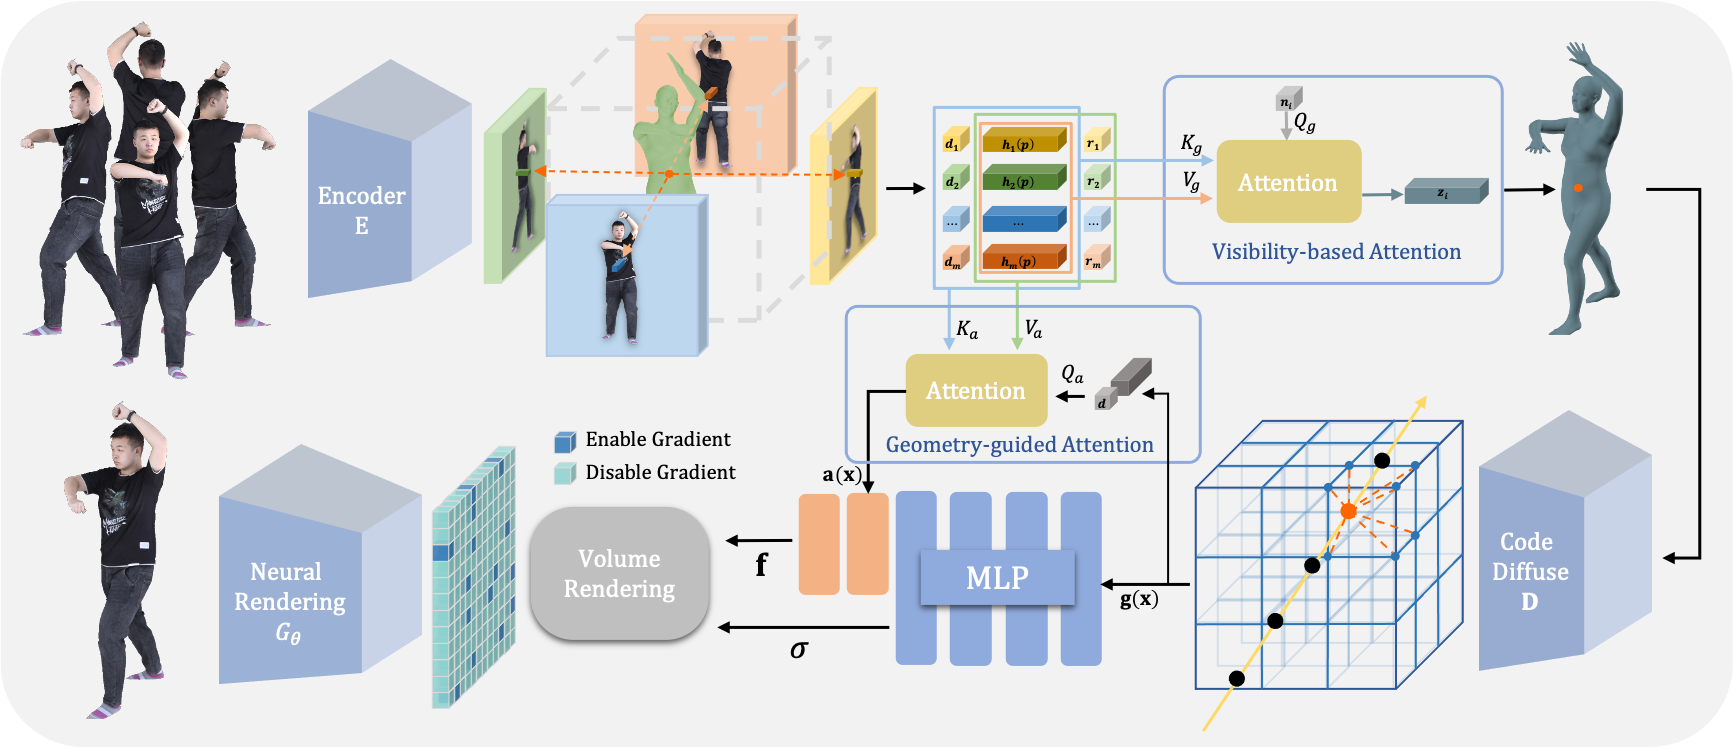
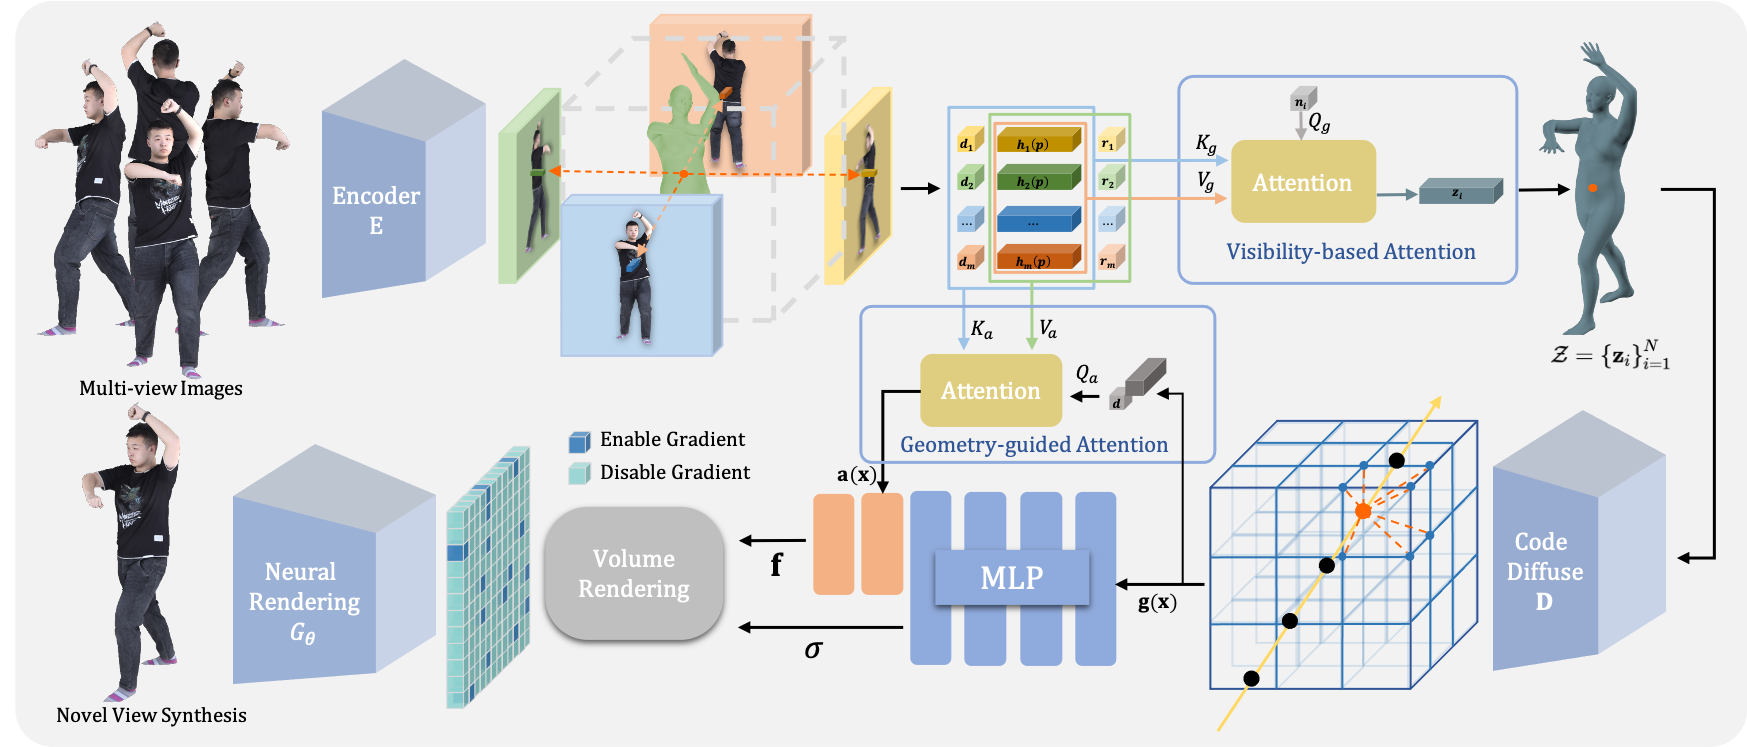
add youtubu video

diff --git a/GM-NeRF/index.html b/GM-NeRF/index.html
@@ -83,7 +83,7 @@
             <h1 class="title is-size-3" style="color:#5a6268;">CVPR 2023</h1>
           <div class="is-size-5 publication-authors">
             <span class="author-block">
-              <a href="https://github.com/JanaldoChen">Jianchuan Chen</a><sup>1</sup>,</span>
+              <a href="">Jianchuan Chen</a><sup>1</sup>,</span>
             <span class="author-block">
               <a href="">Wentao Yi</a><sup>1</sup>,</span>
             <span class="author-block">
@@ -125,7 +125,7 @@
               </span>
               <!-- Video Link. -->
               <span class="link-block">
-                <a href=""
+                <a href="https://www.youtube.com/watch?v=p4vSrBd9JIs"
                    class="external-link button is-normal is-rounded is-dark">
                   <span class="icon">
                       <i class="fab fa-youtube"></i>
@@ -185,8 +185,8 @@
             of sparse multi-view images. It is a challenging task due to
             the large variation among articulated body poses and heavy
             self-occlusions. To alleviate this, we introduce an effective generalizable framework Generalizable Model-based
-            Neural Radiance Fields (GM-NeRF) to synthesize freeviewpoint images. Specifically, 
-            we propose a geometryguided attention mechanism to register the appearance
+            Neural Radiance Fields (GM-NeRF) to synthesize free-viewpoint images. Specifically, 
+            we propose a geometry-guided attention mechanism to register the appearance
             code from multi-view 2D images to a geometry proxy which
             can alleviate the misalignment between inaccurate geometry prior and pixel space. On top of that, we further conduct
             neural rendering and partial gradient backpropagation for
@@ -206,7 +206,7 @@
         <div class="column is-four-fifths">
             <h2 class="title is-3">Video</h2>
             <div class="publication-video">
-            <iframe src=""
+            <iframe src="https://www.youtube.com/embed/p4vSrBd9JIs"
                     frameborder="0" allow="autoplay; encrypted-media" allowfullscreen></iframe>
             </div>
         </div>
@@ -230,7 +230,7 @@
           <p>
             Given m calibrated multi-view images and registered SMPL, we build the generalizable
             model-based neural human radiance field. First, we utilize the image encoder to extract multi-view image features, which are used to
-            provide geometric and appearance information, respectively. In order to adequately exploit the geometric prior, we propose the visibilitybased attention mechanism to construct a structured geometric body embedding, which is further diffused to form a geometric feature
+            provide geometric and appearance information, respectively. In order to adequately exploit the geometric prior, we propose the visibility-based attention mechanism to construct a structured geometric body embedding, which is further diffused to form a geometric feature
             volume. For any spatial point x, we trilinearly interpolate the feature volume G to obtain the geometric code g(x). In addition, we also
             propose geometry-guided attention to obtain the appearance code a(x, d) directly from the multi-view image features. We then feed the
             geometric code g(x) and appearance code a(x, d) into the MLP network to build the neural feature field (f, σ) = F(g(x), a(x, d)).
